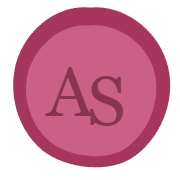
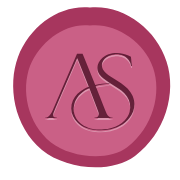
feat: the real mark, in place of the AS we drew
The couple have an actual logo — an A/S ligature drawn in Illustrator —
so the two-letter Cormorant stand-in comes out everywhere it appeared:
the hero, the closing, the card peeking out of the envelope, both halves
of the wax seal, and the icons.

The path is a symbol defined once at the top of the body and pulled in
with <use>, so the seal and the paper can never drift apart. It runs
wider than tall where the letters ran taller than wide, hence the
trimmed hero and closing widths. The favicon bakes its own copy in,
darker and larger than the on-page stamp, because a fine serif loses
its strokes at 16px and an icon can borrow nothing from the page.

RSVP: "Replying for anyone else?" is now "Bringing a plus one?".

Claude-Session: https://claude.ai/code/session_01VBGhKCnC1e8oVe93ceqcmk

diff --git a/index.html b/index.html
@@ -8,20 +8,26 @@
   <meta property="og:title" content="Abdelrahman & Sarah — Engagement">
   <meta property="og:description" content="Friday, October 9 at 3PM — King Mariout, Alexandria">
   <meta property="og:type" content="website">
-  <!-- The wax seal, not the paper monogram: at 16px the invitation's own
-       olive serif on cream turns to mud, while a saturated disc survives any
-       size. SVG first for crispness, PNGs behind it for the browsers and the
-       iOS home screen that still want raster. -->
-  <link rel="icon" href="assets/img/favicon.svg?v=43" type="image/svg+xml">
-  <link rel="icon" href="assets/img/favicon-32.png?v=43" sizes="32x32" type="image/png">
-  <link rel="icon" href="assets/img/favicon-16.png?v=43" sizes="16x16" type="image/png">
-  <link rel="apple-touch-icon" href="assets/img/apple-touch-icon.png?v=43">
+  <!-- The wax seal, not the mark on its own: at 16px a fine rose serif on
+       cream turns to mud, while a saturated disc survives any size. SVG first
+       for crispness, PNGs behind it for the browsers and the iOS home screen
+       that still want raster. -->
+  <link rel="icon" href="assets/img/favicon.svg?v=44" type="image/svg+xml">
+  <link rel="icon" href="assets/img/favicon-32.png?v=44" sizes="32x32" type="image/png">
+  <link rel="icon" href="assets/img/favicon-16.png?v=44" sizes="16x16" type="image/png">
+  <link rel="apple-touch-icon" href="assets/img/apple-touch-icon.png?v=44">
   <link rel="preconnect" href="https://fonts.googleapis.com">
   <link rel="preconnect" href="https://fonts.gstatic.com" crossorigin>
   <link href="https://fonts.googleapis.com/css2?family=Cormorant+Garamond:wght@300;400&family=EB+Garamond:ital,wght@0,400;0,500;1,400&family=Great+Vibes&display=swap" rel="stylesheet">
-  <link rel="stylesheet" href="assets/css/style.css?v=43">
+  <link rel="stylesheet" href="assets/css/style.css?v=44">
 </head>
 <body>
+  <!-- The couple's mark, drawn once here and referenced wherever it shows up:
+       the hero, the closing, and pressed into the wax. One path, so the seal
+       and the paper can never drift apart. -->
+  <svg class="mark-defs" aria-hidden="true" width="0" height="0">
+    <symbol id="mark" viewBox="0 0 1000.13 867.44"><path d="M35.5 713.44C62.14 694.84 75.82 666.13 88.52 636.45L122.98 555.92L216.37 338.78L281.19 187.8L355.79 14.24L417.6 14.16L449.44 91.49L497.61 211.15L558.18 362.07C609.58 349.77 660.99 343.77 713 342.99L720.6 347.7C666.36 349.92 615.64 356.93 562.27 372.37L616.23 509.04L649.84 594.44L672.35 650.79L686.55 683.57C697.42 708.64 725.15 725.27 753.3 725.05L753.13 728.85L548.47 728.95L547.96 725.32C568.82 723.92 589.29 718.74 595.71 698.01C598.85 687.89 599.02 677.05 595.27 666.84L575.14 612.01L493.04 395.93L470.02 406.65C397.7 442.93 340.22 505.58 322.88 585.9C313.41 629.76 318.89 674.05 338.04 714.33C366 773.12 418.59 814.56 479.56 835.56C496.81 841.5 513.13 846.04 531.15 849.15C571.47 856.09 611.7 857.91 652.51 853.76C709.77 847.94 769.96 832.6 819.92 804.32C843.75 790.84 865.44 775.48 884.48 755.9C911.25 728.39 930.9 695.39 940.57 658.27C955.82 599.71 945.15 538.89 911.02 489.07C875.84 437.7 825.34 403.69 772.65 371.8L715.98 337.5C691.16 322.48 668.35 306.08 646.14 287.5C630.78 274.64 617.3 261.27 605.66 244.98C584.33 215.11 577.3 178.5 585.89 142.63C596.46 98.45 628.24 62.96 666.64 39.61C692.58 23.84 720.57 14.49 750.66 9.64C810.5 0 870.95 8.57 925.97 33.69L954.8 46.32L960.44 99.2L966.29 147.92L966.79 149.49L957.6 149.63C954.27 127.52 946.13 107.62 933.56 88.96C898.71 37.2 833.21 15.7 772.64 21.74C749.89 24.01 728.46 29.21 708 38.94C675.29 54.49 646.73 79.76 636.12 115.01C628.26 141.15 631.88 168.5 645.51 192.29C656.41 211.29 671.6 226.26 688.85 239.77C705.69 252.95 722.75 264.26 741.09 275.53C776.61 297.36 811.66 318.59 845.89 342.41L884.61 371.8C910.04 391.11 931.37 414.19 949.85 440.37C969.02 467.54 982.55 497.28 989.04 530.01C1000.13 585.92 989.97 643.04 961.95 692.47C913.07 778.68 826.76 831.52 730.93 852.24C675.37 864.26 618.72 867.44 562.14 862.13C486.16 855 413.68 829.56 359.22 775.1C339.39 755.28 323.74 733 311.68 707.74C285.28 652.44 284.61 588.94 309.83 533C334.97 477.25 380.29 435.21 433.41 405.91C450.69 396.38 467.9 389.24 486.68 381.56L476.49 355.08L436.37 255.31L375.21 103.98L359.84 66.11C359.6 65.51 358.68 64.04 358.27 64.37L355.98 66.26L179.35 473.41L150.35 539.47L117.91 613.94L95.32 668.33C91.43 677.71 89.61 687.59 90.04 697.57C90.49 707.63 96.12 715.23 104.87 719.82C113.93 722.99 122.96 724.54 132.93 725.46L134.27 727.3C134.71 727.89 132.74 728.75 131.69 728.91L0.73 728.91C0 728.26 0.8 725.84 1.98 725.65C13.7 723.82 25.65 720.31 35.5 713.44Z"/></symbol>
+  </svg>
   <!-- The closed card. Removed before first paint for a guest who has already
        opened it (see the inline script below), hidden outright without JS. -->
   <div id="seal-gate">
@@ -29,9 +35,8 @@
       <!-- The card inside. It sits BEHIND the envelope back until the flap
            lifts, then rises far enough to show it was in there all along. -->
       <div class="env-card">
-        <svg class="env-card-mono" viewBox="0 0 120 80" aria-hidden="true">
-          <text x="30" y="60" class="mono-letter">A</text>
-          <text x="62" y="66" class="mono-letter">S</text>
+        <svg class="env-card-mono" viewBox="0 0 1000.13 867.44" aria-hidden="true">
+          <use href="#mark" width="1000.13" height="867.44"></use>
         </svg>
       </div>
       <!-- The envelope back. Real folded paper, not lines drawn on a
@@ -58,13 +63,11 @@
               <!-- Light catches the upper-left shoulder. Wax is glossy; without
                    a specular it reads as a flat printed disc. -->
               <path class="wax-shine" d="M26 34 C34 20 50 12 66 13 C52 17 39 25 32 38 C29 45 24 42 26 34 Z"/>
-              <!-- The letters are STAMPED IN, so each carries a pale lip a
-                   hair below it — the lit lower wall of the impression. Drawn
+              <!-- The mark is STAMPED IN, so it carries a pale lip a hair
+                   below it — the lit lower wall of the impression. Drawn
                    first, so the dark face sits on top of its own highlight. -->
-              <text class="wax-lip" x="33" y="77.3">A</text>
-              <text class="wax-lip" x="59" y="83.3">S</text>
-              <text class="wax-letter" x="33" y="76">A</text>
-              <text class="wax-letter" x="59" y="82">S</text>
+              <use class="wax-lip" href="#mark" x="30" y="36.3" width="60" height="52.04"></use>
+              <use class="wax-letter" href="#mark" x="30" y="35" width="60" height="52.04"></use>
             </svg>
           </span>
           <span class="seal-half r">
@@ -74,13 +77,11 @@
               <!-- Light catches the upper-left shoulder. Wax is glossy; without
                    a specular it reads as a flat printed disc. -->
               <path class="wax-shine" d="M26 34 C34 20 50 12 66 13 C52 17 39 25 32 38 C29 45 24 42 26 34 Z"/>
-              <!-- The letters are STAMPED IN, so each carries a pale lip a
-                   hair below it — the lit lower wall of the impression. Drawn
+              <!-- The mark is STAMPED IN, so it carries a pale lip a hair
+                   below it — the lit lower wall of the impression. Drawn
                    first, so the dark face sits on top of its own highlight. -->
-              <text class="wax-lip" x="33" y="77.3">A</text>
-              <text class="wax-lip" x="59" y="83.3">S</text>
-              <text class="wax-letter" x="33" y="76">A</text>
-              <text class="wax-letter" x="59" y="82">S</text>
+              <use class="wax-lip" href="#mark" x="30" y="36.3" width="60" height="52.04"></use>
+              <use class="wax-letter" href="#mark" x="30" y="35" width="60" height="52.04"></use>
             </svg>
           </span>
         </span>
@@ -118,12 +119,11 @@
   <main>
     <!-- ══ 1 · Names ═══════════════════════════════════════════ -->
     <section id="names" class="panel hero">
-      <img class="cluster cluster-tl" src="assets/img/cluster-top-left.svg?v=43" alt="" aria-hidden="true" width="420" height="480">
-      <img class="cluster cluster-r" src="assets/img/cluster-right.svg?v=43" alt="" aria-hidden="true" width="260" height="620" loading="lazy">
+      <img class="cluster cluster-tl" src="assets/img/cluster-top-left.svg?v=44" alt="" aria-hidden="true" width="420" height="480">
+      <img class="cluster cluster-r" src="assets/img/cluster-right.svg?v=44" alt="" aria-hidden="true" width="260" height="620" loading="lazy">
       <div class="hero-inner">
-        <svg class="monogram" viewBox="0 0 120 80" role="img" aria-label="A and S monogram" data-reveal>
-          <text x="30" y="60" class="mono-letter">A</text>
-          <text x="62" y="66" class="mono-letter">S</text>
+        <svg class="monogram" viewBox="0 0 1000.13 867.44" role="img" aria-label="Abdelrahman and Sarah monogram" data-reveal>
+          <use href="#mark" width="1000.13" height="867.44"></use>
         </svg>
         <hr class="rule" data-reveal>
         <p class="caps" data-reveal>Together with our families</p>
@@ -146,12 +146,12 @@
 
     <!-- ══ 2 · Interlude — deliberate silence ══════════════════ -->
     <section id="interlude" class="panel interlude" aria-hidden="true">
-      <img class="cluster cluster-hang" src="assets/img/cluster-amaranthus.svg?v=43" alt="" width="220" height="520" loading="lazy">
+      <img class="cluster cluster-hang" src="assets/img/cluster-amaranthus.svg?v=44" alt="" width="220" height="520" loading="lazy">
     </section>
 
     <!-- ══ 3 · Location ════════════════════════════════════════ -->
     <section id="location" class="panel">
-      <img class="cluster cluster-tr" src="assets/img/cluster-amaranthus.svg?v=43" alt="" aria-hidden="true" width="220" height="520" loading="lazy">
+      <img class="cluster cluster-tr" src="assets/img/cluster-amaranthus.svg?v=44" alt="" aria-hidden="true" width="220" height="520" loading="lazy">
       <div class="card map-card" data-reveal>
         <p class="caps small">Location Details</p>
         <hr class="rule">
@@ -196,7 +196,7 @@
 
     <!-- ══ 4 · RSVP ════════════════════════════════════════════ -->
     <section id="rsvp" class="panel">
-      <img class="cluster cluster-br" src="assets/img/cluster-bottom-right.svg?v=43" alt="" aria-hidden="true" width="380" height="420" loading="lazy">
+      <img class="cluster cluster-br" src="assets/img/cluster-bottom-right.svg?v=44" alt="" aria-hidden="true" width="380" height="420" loading="lazy">
       <div class="card rsvp-inner" data-reveal>
         <p class="caps">RSVP</p>
         <hr class="rule">
@@ -227,7 +227,7 @@
                family — each with their own answer, independent of yours, so
                one person can come while another can't. -->
           <div id="party" class="party">
-            <p class="party-label caps small">Replying for anyone else?</p>
+            <p class="party-label caps small">Bringing a plus one?</p>
             <ul id="party-list" class="party-list"></ul>
             <button type="button" id="add-person" class="link-button">+ Add a guest or family member</button>
           </div>
@@ -252,7 +252,7 @@
 
     <!-- ══ 5 · Closing ═════════════════════════════════════════ -->
     <section id="closing" class="panel closing">
-      <img class="cluster cluster-bl wide" src="assets/img/cluster-bottom-right.svg?v=43" alt="" aria-hidden="true" width="380" height="420" loading="lazy">
+      <img class="cluster cluster-bl wide" src="assets/img/cluster-bottom-right.svg?v=44" alt="" aria-hidden="true" width="380" height="420" loading="lazy">
       <div data-reveal>
         <div id="countdown" class="countdown" aria-label="Countdown to the engagement">
           <div class="count-unit"><span class="count-num" data-unit="days">–</span><span class="count-label caps small">days</span></div>
@@ -262,21 +262,20 @@
         </div>
         <hr class="rule">
         <p class="closing-message">Please make sure to arrive at 3pm sharp. See you there!</p>
-        <svg class="monogram small" viewBox="0 0 120 80" aria-hidden="true">
-          <text x="30" y="60" class="mono-letter">A</text>
-          <text x="62" y="66" class="mono-letter">S</text>
+        <svg class="monogram small" viewBox="0 0 1000.13 867.44" aria-hidden="true">
+          <use href="#mark" width="1000.13" height="867.44"></use>
         </svg>
       </div>
     </section>
   </main>
 
-  <script src="assets/js/envelope.js?v=43"></script>
-  <script src="assets/js/config.js?v=43"></script>
-  <script src="assets/js/lib.js?v=43"></script>
+  <script src="assets/js/envelope.js?v=44"></script>
+  <script src="assets/js/config.js?v=44"></script>
+  <script src="assets/js/lib.js?v=44"></script>
   <script defer src="https://cdnjs.cloudflare.com/ajax/libs/gsap/3.12.5/gsap.min.js"></script>
   <script defer src="https://cdnjs.cloudflare.com/ajax/libs/gsap/3.12.5/ScrollTrigger.min.js"></script>
-  <script defer src="assets/js/motion.js?v=43"></script>
-  <script defer src="assets/js/rsvp.js?v=43"></script>
-  <script defer src="assets/js/countdown.js?v=43"></script>
+  <script defer src="assets/js/motion.js?v=44"></script>
+  <script defer src="assets/js/rsvp.js?v=44"></script>
+  <script defer src="assets/js/countdown.js?v=44"></script>
 </body>
 </html>

diff --git a/assets/css/style.css b/assets/css/style.css
@@ -145,15 +145,12 @@ main { position: relative; z-index: 2; }
 }
 .date-line .date-day { color: var(--rose); font-size: 1.25em; }
 .bar { color: color-mix(in srgb, var(--olive) 45%, transparent); margin: 0 0.35em; }
+/* The mark is one path referenced by <use>, so the colour has to be set on
+   the <use> itself — CSS cannot reach inside the cloned symbol. */
+.mark-defs { position: absolute; width: 0; height: 0; overflow: hidden; }
 .monogram { width: 96px; height: auto; margin: 0 auto; display: block; }
-.monogram.small { width: 64px; margin-top: 2.2rem; }
-.mono-letter {
-  font-family: var(--font-display);
-  font-size: 58px;
-  fill: var(--rose);
-  stroke: var(--rose);
-  stroke-width: 0.6;
-}
+.monogram.small { width: 58px; margin-top: 2.2rem; }
+.monogram use, .env-card-mono use { fill: var(--rose); }
 .body-note { max-width: 34ch; margin: 1rem auto; }
 
 /* ── Cards ──────────────────────────────────────────────────────── */
@@ -504,7 +501,7 @@ html.motion { scroll-behavior: auto; }
 .hero .names-block { margin: 0.9rem 0; }
 .hero .script-word { margin: 0.3rem 0; }
 .hero .surname { margin: 0.3rem 0 0.7rem; }
-.hero .monogram { width: 82px; }
+.hero .monogram { width: 74px; }
 
 @media (max-height: 860px) {
   .panel.hero { padding-top: 2.6rem; padding-bottom: 2.6rem; }
@@ -513,7 +510,7 @@ html.motion { scroll-behavior: auto; }
   .hero .first-name { font-size: clamp(2.1rem, 7.5vw, 3.3rem); }
   .hero .script-word { font-size: clamp(2.3rem, 9vw, 3.5rem); }
   .hero .amp { font-size: 2rem; }
-  .hero .monogram { width: 68px; }
+  .hero .monogram { width: 62px; }
 }
 
 /* ── Watercolour washes ─────────────────────────────────────────────
@@ -779,8 +776,7 @@ html.gated body { overflow: hidden; }
 .wax-inner { fill: color-mix(in srgb, var(--magenta) 82%, #fff); }
 .wax-shine { fill: #fff; opacity: 0.17; }
 .wax-lip { fill: #fff; opacity: 0.28; }
-.wax-letter { fill: color-mix(in srgb, var(--magenta) 55%, #000); opacity: 0.62; }
-.wax-lip, .wax-letter { font-family: var(--font-display); font-size: 42px; }
+.wax-letter { fill: color-mix(in srgb, var(--magenta) 45%, #000); opacity: 0.8; }
 
 .seal-hint {
   color: color-mix(in srgb, var(--olive) 80%, transparent);

diff --git a/assets/js/motion.js b/assets/js/motion.js
@@ -136,7 +136,7 @@
   // ── Hero: bouquet unfold (plays exactly once, on load) ─────────
   function wireHeroEntrance() {
     var tl = gsap.timeline({ defaults: { ease: 'power2.out' } });
-    tl.from('.monogram .mono-letter', { opacity: 0, y: 10, stagger: 0.2, duration: 0.9 })
+    tl.from('.monogram use', { opacity: 0, y: 10, duration: 1.1 })
       .to('.hero .cluster', { opacity: 1, duration: 1.2 }, '-=0.4')
       // Pixel `y`, NOT yPercent. yPercent belongs to the parallax scrub, and
       // wireParallax() builds its trigger while this entrance is still in
@@ -171,7 +171,7 @@
   // Pins the hero elements at their settled, fully-revealed state. Used
   // on a width-change rebuild so the one-time entrance never replays.
   function setHeroFinal() {
-    gsap.set('.monogram .mono-letter', { opacity: 1, y: 0 });
+    gsap.set('.monogram use', { opacity: 1, y: 0 });
     gsap.set('.hero .cluster', { opacity: 1 });
     gsap.set('.cluster-tl', { xPercent: 0, y: 0, rotation: 0 });   // y, not yPercent — see above
     gsap.set('.cluster-r', { xPercent: 0, rotation: 0 });
